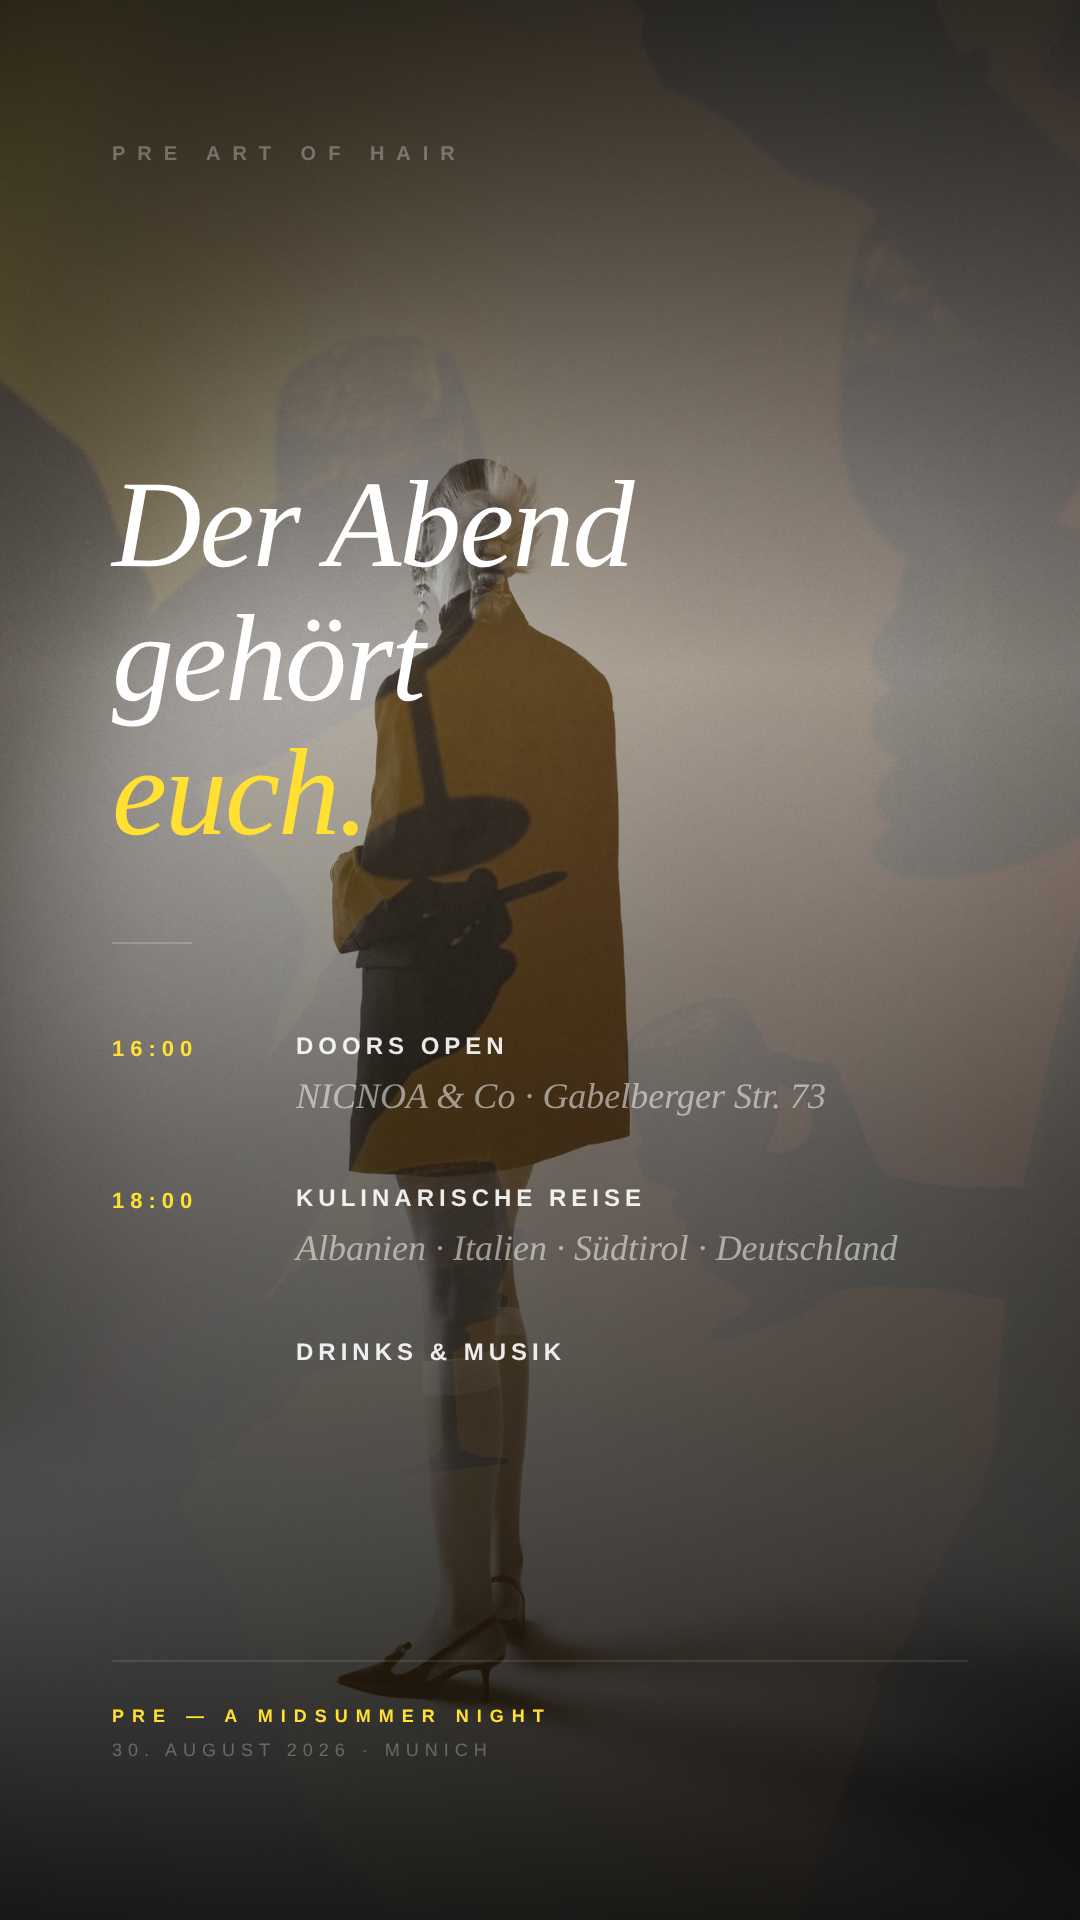
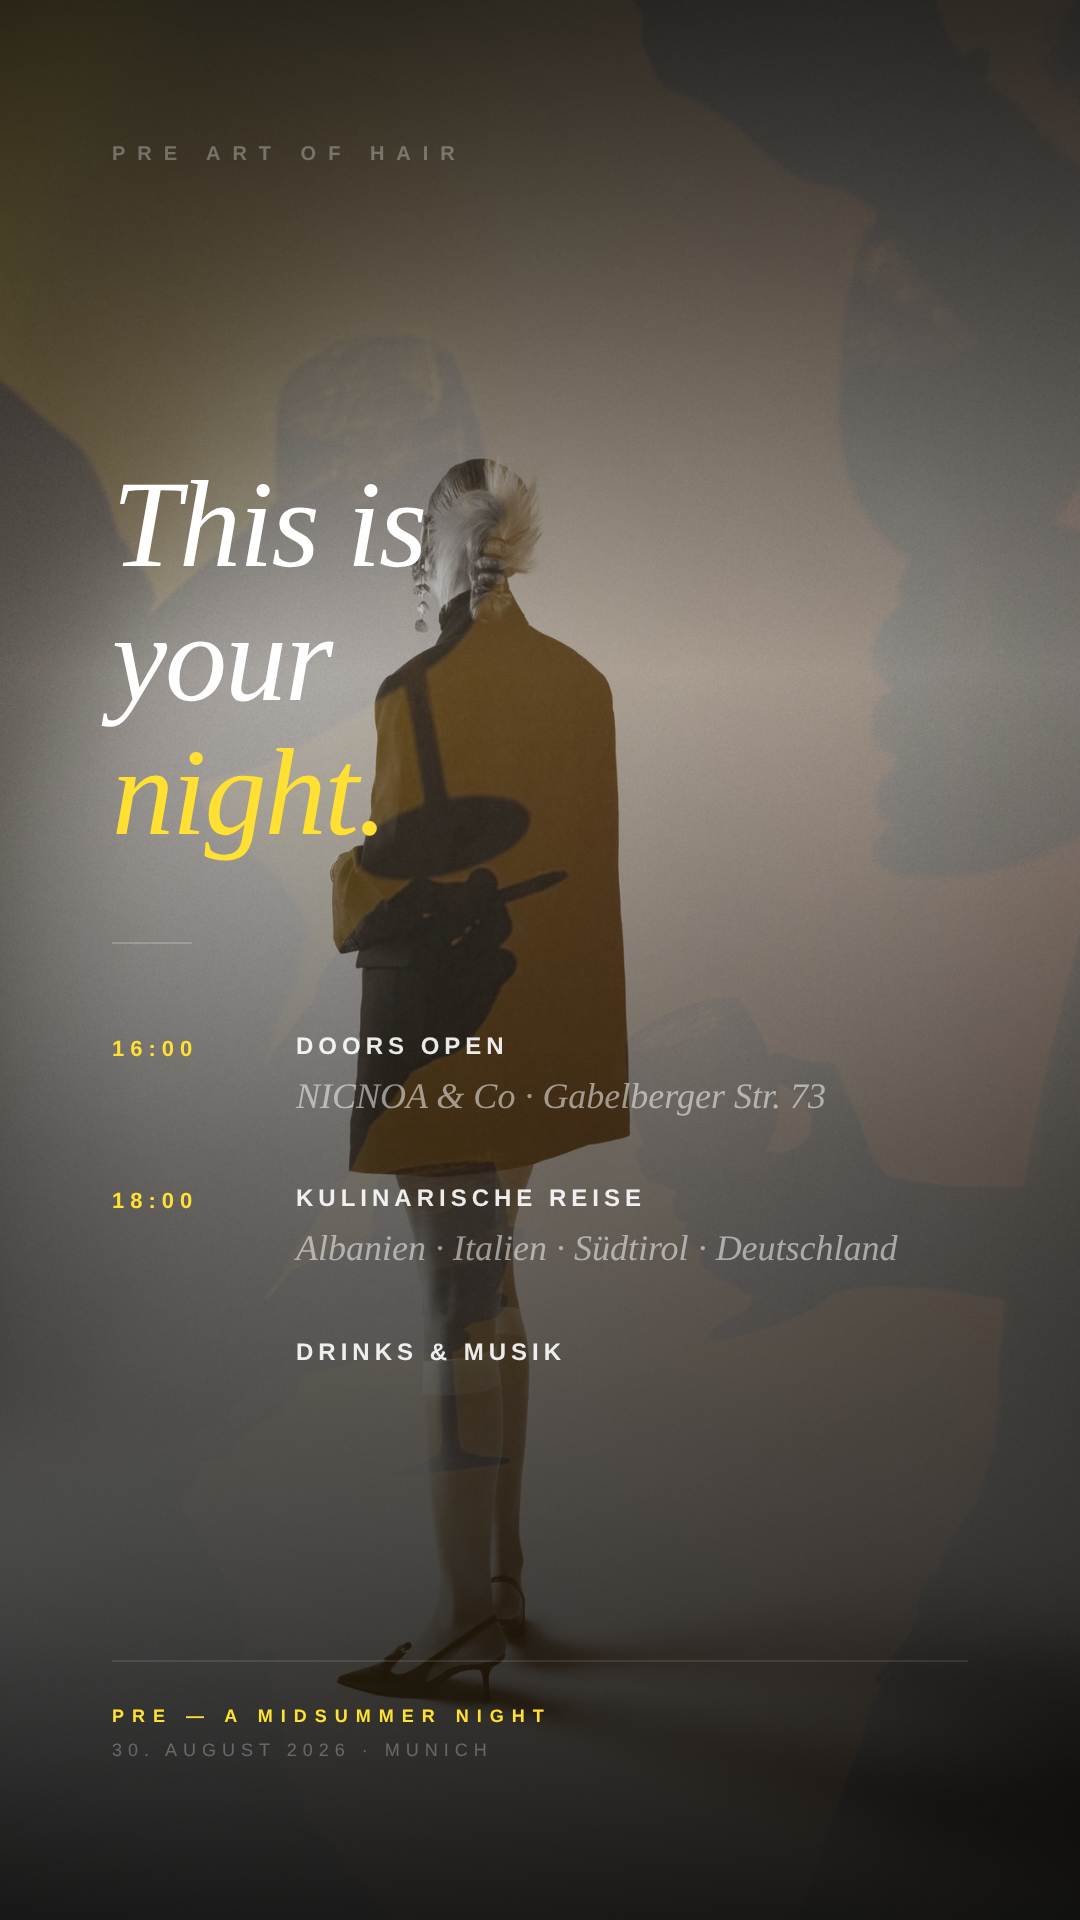
Program story: headline 'This is your night.'
Claude-Session: https://claude.ai/code/session_01BaC8m9wAmbtKccXQSCmnYc

Changed region(s): [[0.0917, 0.25, 0.5806, 0.4688]]

diff --git a/story-program.html b/story-program.html
@@ -172,9 +172,9 @@
 
       <div class="middle">
         <div class="headline">
-          Der Abend<br>
-          gehört<br>
-          <span class="yellow">euch.</span>
+          This is<br>
+          your<br>
+          <span class="yellow">night.</span>
         </div>
         <div class="rule"></div>
         <div class="program">
